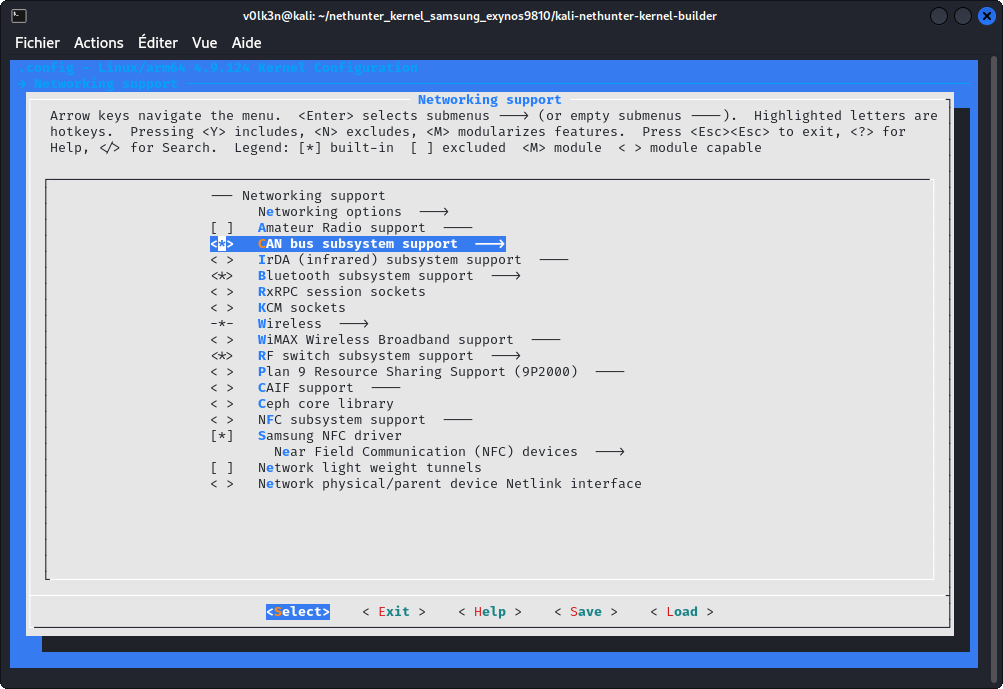
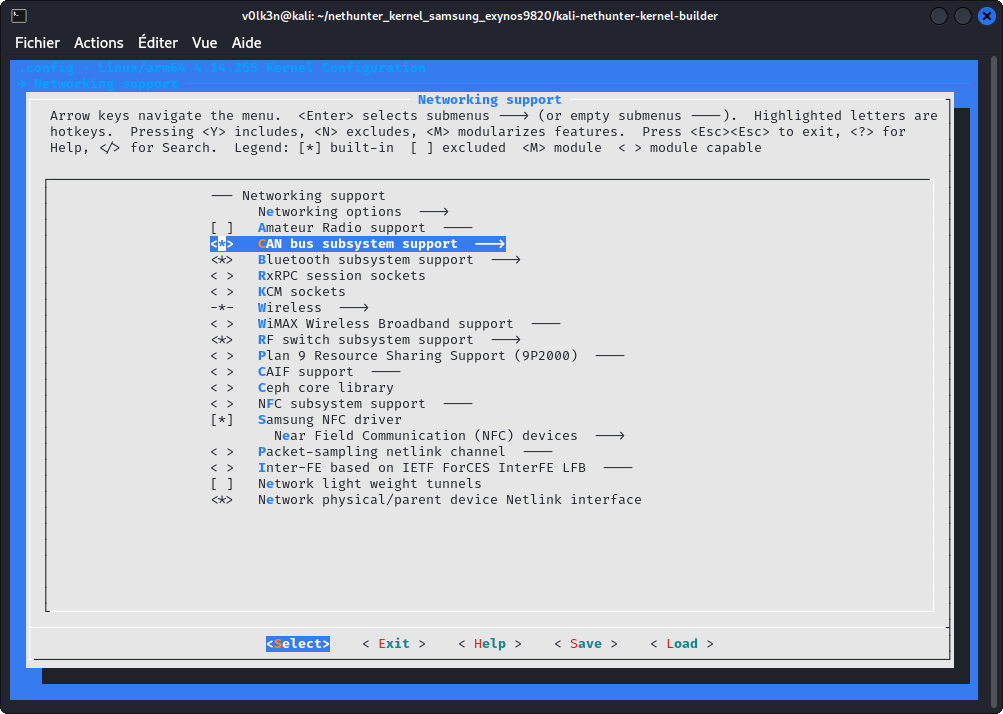
Update CAN Arsenal Kernel Change

diff --git a/nethunter/nethunter-kernel-9-config-8/index.md b/nethunter/nethunter-kernel-9-config-8/index.md
@@ -10,11 +10,15 @@ author: ["v0lk3n",]
 
 CAN support will be needed for CAN Arsenal usage. Note that this documentations may be updated a lot since CAN Arsenal is in Experimental Version.
 
-In section ***“Networking support”***:
+In section ***"Networking support"***:
+
 
 - Select ***"CAN bus subsystem support"***
+- Select ***"Network physical/parent device Netlink interface"***
+
 
 ![](1-kernel_can.png)
+
 
 Under ***"CAN bus subsystem support --->"***
 
@@ -23,6 +27,7 @@ Under ***"CAN bus subsystem support --->"***
 - Select ***"CAN Gateway/Router (with netlink configuration)"***
 
 ![](2-kernel_can.png)
+
 
 Under ***"CAN Device Drivers --->"***
 
@@ -44,6 +49,7 @@ Under ***"CAN Device Drivers --->"***
 
 Under ***"CAN SPI interfaces --->"***
 
+- Select ***"Holt HI311x SPI CAN controllers"***
 - Select ***"Microchip MCP251x SPI CAN controllers"***
 
 ![](4-kernel_can.png)
@@ -59,18 +65,21 @@ Under ***"CAN USB interfaces --->"***
 
 ![](5-kernel_can.png)
 
-Under ***"Networking Support***
 
-- Select ***Network physical/parent device Netlink interface***
+In Section ***"Networking Support"***
 
-Under ***"Networking Support > Networking options"***
+Under ***"Networking options"***
 
-- Select ***Virtual Socket protocol"***
+- Select ***"Virtual Socket protocol"***
 - Select ***"NETLINK: socket monitoring interface"***
 
-In Section ***"Networking support ---> Networking options ---> QoS and/or fair queueing"***
+![](6-kernel_can.png)
+
+Under ***"QoS and/or fair queueing"***
 
 - Select ***"CAN Identifier"***
+
+![](7-kernel_can.png)
 
 
 In Section ***"Device Drivers ---> USB support"***
@@ -80,6 +89,8 @@ In Section ***"Device Drivers ---> USB support"***
 - Select ***"Host driver"***
 - Select ***"VUDC driver"***
 
+![](8-kernel_can.png)
+
 In section ***"Device Drivers ---> USB support ---> USB Serial Converter support --->"*** :
 
 - Select ***"USB Serial Console device support"***
@@ -88,7 +99,7 @@ In section ***"Device Drivers ---> USB support ---> USB Serial Converter support
 - Select ***"USB FTDI Single Port Serial Driver"***
 - Select ***"USB Prolific 2303 Single Port Serial Driver"***
 
-![](CH341_Driver.png)
+![](9-kernel_can.png)
 
 ### ELM327 
 
@@ -96,7 +107,9 @@ In section ***"Device Drivers ---> USB support ---> USB Serial Converter support
 
 This driver has become an official part of Linux since v6.0
 
-Under ***"Networking support > CAN bus subsystem support >  CAN Device Drivers --->***
+In Section ***"Networking support"***
+
+Under ***" > CAN bus subsystem support >  CAN Device Drivers --->"***
 
 - Select as module (\<M\>) ***Serial / USB serial ELM327 based OBD-II Interfaces (can327)***
 
@@ -139,7 +152,11 @@ config CAN_CAN327
 	  If this driver is built as a module, it will be called can327.
 ```
 
-Finally, build the kernel again, and under ***"Networking support > CAN bus subsystem support >  CAN Device Drivers --->***
+Finally, build the kernel.
+
+In Section ***"Networking support"***
+
+Under ***"CAN bus subsystem support >  CAN Device Drivers --->***
 
 - Select as module (\<M\>) ***Serial / USB serial ELM327 based OBD-II Interfaces (can327)***
 
@@ -159,7 +176,11 @@ git submodule add -b linux-pre-4.11 https://github.com/V0lk3n/elmcan drivers/net
 obj-y                           += elmcan/
 ```
 
-Finally, build the kernel again, and under ***"Networking support > CAN bus subsystem support >  CAN Device Drivers --->***
+Finally, build the kernel.
+
+In Section ***"Networking support"***
+
+Under ***"CAN bus subsystem support >  CAN Device Drivers --->***
 
 - Select as module (\<M\>) ***Serial / Serial ELM327 driver***
 
@@ -190,8 +211,10 @@ Edit drivers/net/can/Makefile and add the following line :
 obj-y				+= can-isotp/
 ```
 
-Under ***"Networking Support ---> CAN bus subsystem support ---> CAN Device Drivers"***
+In Section ***"Networking Support"***
 
-- Select as Module ***"CAN ISO 15765-2 driver "***
+Under ***"CAN bus subsystem support ---> CAN Device Drivers"***
+
+- Select as Module ***"CAN ISO 15765-2 driver"***
 
 Save, Exit, then build!
